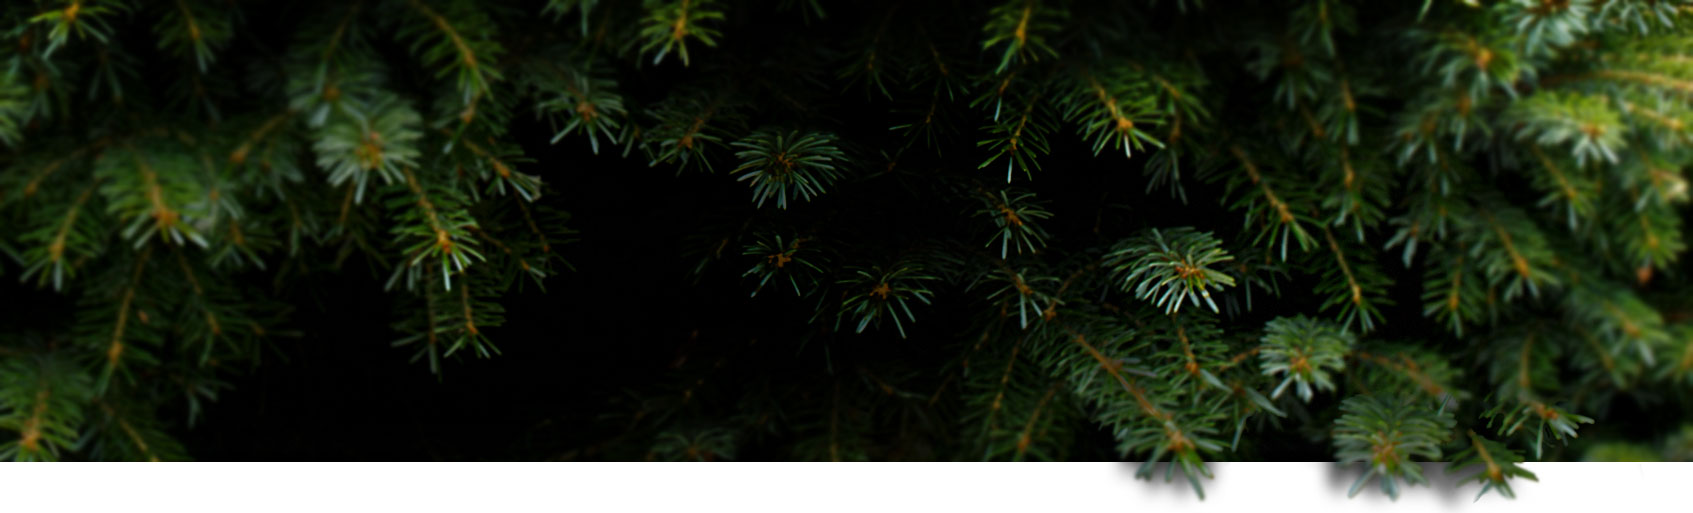
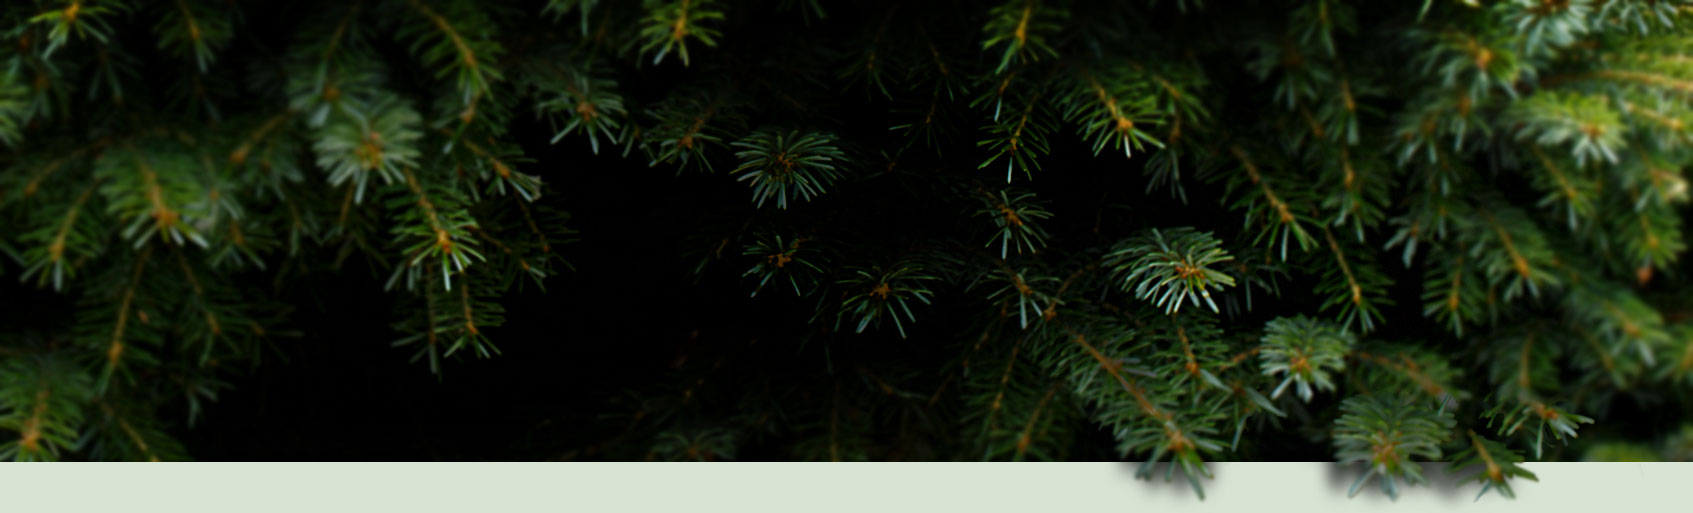
all trees listed

Changed region(s): [[0.0, 0.8733, 1.0, 1.0]]

diff --git a/forest-of-stories/index.html b/forest-of-stories/index.html
@@ -1,5 +1,6 @@
 <!DOCTYPE html>
-<html lang="en"><!-- InstanceBegin template="/Templates/page.dwt" codeOutsideHTMLIsLocked="false" -->
+<html lang="en">
+<!-- InstanceBegin template="/Templates/page.dwt" codeOutsideHTMLIsLocked="false" -->
 <head>
 <meta charset="utf-8">
 <meta http-equiv="X-UA-Compatible" content="IE=edge">
@@ -68,7 +69,7 @@ j=d.createElement(s),dl=l!='dataLayer'?'&l='+l:'';j.async=true;j.src=
 <link href="https://maxcdn.bootstrapcdn.com/bootswatch/3.3.7/cosmo/bootstrap.min.css" rel="stylesheet" integrity="sha384-h21C2fcDk/eFsW9sC9h0dhokq5pDinLNklTKoxIZRUn3+hvmgQSffLLQ4G4l2eEr" crossorigin="anonymous">
 <link href="https://fonts.googleapis.com/css?family=Roboto+Slab:300,400|Ubuntu:300,400,500,300italic,400italic,500italic|Open+Sans:300,400,500,600,700,800|Nothing+You+Could+Do|Material+Icons" rel="stylesheet">
 <link type="text/css" rel="stylesheet" href="https://www.dcl.org/shared-assets/css/dcl.css?81822">
-<script src="https://kit.fontawesome.com/5a49a17030.js" crossorigin="anonymous"></script>
+<script src="https://kit.fontawesome.com/5a49a17030.js" crossorigin="anonymous"></script> 
 <script async="async" type="text/javascript">(function(){var e=document.createElement("script");
 e.src="https://dcl.bibliocommons.com/javascripts/sdk.js";
 e.async=true;var t=document.getElementsByTagName("script")[0];t.parentNode.insertBefore(e,t)})()</script> 
@@ -95,8 +96,9 @@ e.async=true;var t=document.getElementsByTagName("script")[0];t.parentNode.inser
 	font-display: swap;
 }
 .row.forest-row {
-	background: url("branches.jpg") center bottom/cover;
-	padding: 75px 0 0;
+	background: url("tree-branches.jpg") center bottom/cover;
+	padding: 40px 0 140px;
+	color: #fff;
 }
 h1.pop-clink {
 	font-family: 'Pop Clink Fill', serif;
@@ -120,45 +122,76 @@ h1.bulgary {
 .light-green {
 	color: #efffd6;
 }
-.tree-location {
-	color: #fff;
-	font-size: 20px;
-	text-transform: uppercase;
-	font-weight: 400;
-	margin-top: 0;
-}
 .forest-intro {
 	padding-top: 30px;
 }
 .row.detail-row {
-	background: linear-gradient(#000, #182e0c);
-	padding: 40px 0 100px;
-	color: #efffd6;
+	background: #d7e3d3;
+	padding: 0 0 80px;
 }
-.spotlight-wrapper {
-	/* display: flex; */
-	/* flex-wrap: wrap; */
-	max-width: 720px;
-	margin: 0 auto;/* justify-content: center; */
+.detail-wrapper {
+	font-size: 18px;
+	font-weight: 400px;
+	max-width: 1080px;
+	margin: 0 auto;
+	padding: 0 15px 25px;
+	color: #000;
+	background: transparent;
+	margin-top: -20px;
 }
-.spotlight-wrapper > div {
-	padding: 15px 30px 20px;
-	background: #293c0d;
-	margin: 15px;
-	border-radius: 2px;
+.tree-wrapper {
+	display: flex;
+	flex-wrap: wrap;
+	max-width: 1225px;
+	margin: 0 auto;
+	justify-content: center;
 }
-.trees {
-	white-space: nowrap;
-	padding-right: 20px;
-	color: #fff;
+.tree-location {
+	font-size: 28px;
+	text-align: center;
+	margin: 15px 0 5px;
 }
-.mid-green.fa-light.fa-tree {
-	margin-right: 6px;
+.tree-item img {
+	border-radius: 50%;
+	width: 150px;
+	height: 150px;
+	text-align: center;
+	display: flex;
+	/* justify-content: center; */
+	/* align-content: center; */
+	margin: 0 auto;
+}
+.tree-item {
+	min-width: 350px;
+	margin: 20px;
+	padding: 30px 30px 35px;
+	background: rgba(255,255,255,.4);
+	border-radius: 3px;
+	color: #000;
+}
+
+@media (max-width: 780px) {
+.tree-item {
+	min-width: 500px;
+}
+}
+
+@media (max-width: 500px) {
+h1.pop-clink {
+	font-size: 60px;
+}
+h1.bulgary {
+	margin: -20px 0;
+	font-size: 84px;
+}
+.tree-item {
+	min-width: 100%;
+}
 }
 </style>
 <!-- InstanceEndEditable -->
 </head>
-<body> 
+<body>
 <!-- Google Tag Manager (noscript) -->
 <noscript>
 <iframe src="https://www.googletagmanager.com/ns.html?id=GTM-MV5DM73"
@@ -333,43 +366,167 @@ height="0" width="0" style="display:none;visibility:hidden"></iframe>
         <h1 class="bulgary">of</h1>
         <h1 class="pop-clink">STORIeS</h1>
         <div class="forest-intro">
-          <h3 class="font-weight-400 light-green no-margin-bottom margin-top-15 text-uppercase">On Display at All DCL Locations, NOV 19-JAN 7</h3>
-          <h4 class="mid-green font-weight-400">Plan your visit! Exhibit is open during library hours, no ticket or registration required.</h4>
-          <div class="light-green margin-lg-200">Enjoy a wonder-filled holiday experience for the whole family! Our Forest of Stories exhibit displays more than 120 decorated trees, all dressed up in stories&mdash;from favorite children’s tales and classic literature, to crime thrillers, mysteries and more. There is something for everyone! Visit all seven locations and find a favorite tree at each one. </div>
+          <h3 class="white font-weight-400 no-margin-bottom margin-top-15 text-uppercase">On Display at All DCL Locations, NOV 19-JAN 7</h3>
+          <h4 class="white font-weight-400">Plan your visit! Exhibit is open during library hours, no ticket or registration required.</h4>
         </div>
       </div>
     </div>
   </div>
   <div class="row detail-row">
-    <h3 class="text-center no-margin-top text-uppercase font-weight-400 light-green">Featuring:</h3>
-    <div class="spotlight-wrapper">
-      <div>
-        <h4 class="tree-location">Castle Pines</h4>
-        <div class="tree-list"> <span class="trees"><i class="mid-green fa-light fa-tree"></i>The Hunger Games</span> <span class="trees"><i class="mid-green fa-light fa-tree"></i>Thomas the Tank Engine</span> <span class="trees"><i class="mid-green fa-light fa-tree"></i>Outlander</span> </div>
+    <div class="text-center detail-wrapper">
+      <div>Enjoy a wonder-filled holiday experience for the whole family! Our Forest of Stories exhibit displays more than 120 decorated trees, all dressed up in stories&mdash;from favorite children’s tales and classic literature, to crime thrillers, mysteries and more. There is something for everyone!</div>
+      <h4 class="black no-margin-bottom">Visit all seven locations and find a favorite tree at each one.</h4>
+    </div>
+    <div class="tree-wrapper">
+      <div class="tree-item"> <img src="castle-pines.jpg" alt="">
+        <div class="tree-location">Castle Rock</div>
+        <div class="tree-list">
+          <ul class="no-margin">
+            <li>Community Tree</li>
+            <li>Harry Potter-Hufflepuff</li>
+            <li>Dolly Parton</li>
+            <li>Captain Underpants</li>
+            <li>Dungeons and Dragons</li>
+            <li>Stephanie Plum</li>
+            <li>Eric Carle</li>
+            <li>Winnie the Pooh</li>
+            <li>Little House on the Prairie</li>
+            <li>Clifford the Big Red Dog</li>
+            <li>Wizard of Oz</li>
+            <li>Where the Wild things Are</li>
+            <li>Superhero Classic Comic</li>
+            <li>Camping/ Fly Fishing</li>
+            <li>Westerns</li>
+            <li>I Spy</li>
+            <li>Neil Gaiman</li>
+            <li>World War II</li>
+            <li>Lord of the Rings</li>
+            <li>Lord of the Rings</li>
+            <li>Lord of the Rings</li>
+          </ul>
+        </div>
       </div>
-      <div>
-        <h4 class="tree-location">Castle Rock</h4>
-        <div class="tree-list"> <span class="trees"><i class="mid-green fa-light fa-tree"></i>Harry Potter-Hufflepuff House</span> <span class="trees"><i class="mid-green fa-light fa-tree"></i>Winnie-the-Pooh</span> <span class="trees"><i class="mid-green fa-light fa-tree"></i>The Wizard of Oz</span> </div>
+      <div class="tree-item"> <img src="castle-pines.jpg" alt="">
+        <div class="tree-location">Highlands Ranch</div>
+        <div class="tree-list">
+          <ul class="no-margin">
+            <li>Arthur</li>
+            <li>C.J. Box</li>
+            <li>Jan Brett</li>
+            <li>The Cat in the Hat</li>
+            <li>Charlotte's Web</li>
+            <li>Classic Rock</li>
+            <li>Ian Fleming</li>
+            <li>The Great Gatsby</li>
+            <li>Harry Potter: Slytherin</li>
+            <li>The Iron Giant</li>
+            <li>James and the Giant Peach</li>
+            <li>The Joy of Cooking </li>
+            <li>Eric Larsen</li>
+            <li>Little Golden Books</li>
+            <li>Manga</li>
+            <li>Brad Meltzer</li>
+            <li>Pete the Cat</li>
+            <li>Police Procedurals</li>
+            <li>The Queen’s Gambit </li>
+            <li>Ready Player One</li>
+            <li>Michael Schur</li>
+            <li>Sesame Street</li>
+            <li>World Records</li>
+          </ul>
+        </div>
       </div>
-      <div>
-        <h4 class="tree-location">Highlands Ranch</h4>
-        <div class="tree-list"> <span class="trees"><i class="mid-green fa-light fa-tree"></i>Charlotte’s Web</span> <span class="trees"><i class="mid-green fa-light fa-tree"></i>The Great Gatsby</span> <span class="trees"><i class="mid-green fa-light fa-tree"></i>Harry Potter-Slytherin House</span> </div>
+      <div class="tree-item"> <img src="castle-pines.jpg" alt="">
+        <div class="tree-location">Parker</div>
+        <div class="tree-list">
+          <ul class="no-margin">
+            <li>Around the World in 80 Days</li>
+            <li>Charlie and the Chocolate Factory</li>
+            <li>Chicka Chicka Boom Boom</li>
+            <li>Cinder</li>
+            <li>Despicable Me</li>
+            <li>Dune</li>
+            <li>Game of Thrones</li>
+            <li>Goodnight Moon</li>
+            <li>Harold and the Purple Crayon</li>
+            <li>Harry Potter: Gryffindor</li>
+            <li>If You Give a Mouse a Cookie</li>
+            <li>The Language of Flowers</li>
+            <li>Magic Tree House</li>
+            <li>The Midnight Library</li>
+            <li>The Nightmare Before Christmas</li>
+            <li>Peterson Field Guide to Birds</li>
+            <li>The Princess Bride</li>
+            <li>The Princess in Black</li>
+            <li>Rankin-Bass Animated Christmas</li>
+            <li>The Secret Garden</li>
+            <li>Stephen King’s The Shining</li>
+            <li>Where's Waldo?</li>
+            <li>Mo Willems</li>
+            <li>WWII Homefront</li>
+          </ul>
+        </div>
       </div>
-      <div>
-        <h4 class="tree-location">Lone Tree</h4>
-        <div class="tree-list"> <span class="trees"><i class="mid-green fa-light fa-tree"></i>A Christmas Carol</span> <span class="trees"><i class="mid-green fa-light fa-tree"></i>Harry Potter-Ravenclaw House</span> </div>
+      <div class="tree-item"> <img src="castle-pines.jpg" alt="">
+        <div class="tree-location">Lone Tree</div>
+        <div class="tree-list">
+          <ul class="no-margin">
+            <li>20,000 Leagues Under the Sea</li>
+            <li>Alice in Wonderland</li>
+            <li>Jane Austen</li>
+            <li>Black Beauty</li>
+            <li>A Christmas Carol</li>
+            <li>Dracula</li>
+            <li>Frankenstein</li>
+            <li>Harry Potter: Ravenclaw</li>
+            <li>The Jungle Book</li>
+            <li>The Legend of Sleepy Hollow</li>
+            <li>Little Red Riding Hood</li>
+            <li>Little Women</li>
+            <li>Moby Dick</li>
+            <li>Peter Pan</li>
+            <li>Peter Rabbit</li>
+            <li>Edgar Allan Poe</li>
+            <li>Sherlock Holmes</li>
+            <li>Treasure Island</li>
+            <li>H.G. Wells</li>
+          </ul>
+        </div>
       </div>
-      <div>
-        <h4 class="tree-location">Louviers</h4>
-        <div class="tree-list"> <span class="trees"><i class="mid-green fa-light fa-tree"></i>Bats in the Library</span> </div>
+      <div class="tree-item"> <img src="castle-pines.jpg" alt="">
+        <div class="tree-location">Castle Pines</div>
+        <div class="tree-list">
+          <ul class="no-margin">
+            <li>Colorado 14er</li>
+            <li>Community Tree</li>
+            <li>David Sedaris/Comedy</li>
+            <li>Gardening</li>
+            <li>Hunger Games</li>
+            <li>The Lorax</li>
+            <li>Murder on the Orient Express</li>
+            <li>Newberry Classic</li>
+            <li>Outlander</li>
+            <li>Thomas the Tank Engine </li>
+            <li>Twilight</li>
+            <li>The Witches Dahl</li>
+          </ul>
+        </div>
       </div>
-      <div>
-        <h4 class="tree-location">Parker</h4>
-        <div class="tree-list"> <span class="trees"><i class="mid-green fa-light fa-tree"></i>Game of Thrones</span> <span class="trees"><i class="mid-green fa-light fa-tree"></i>Harry Potter-Gryffindor House</span> <span class="trees"><i class="mid-green fa-light fa-tree"></i>The Midnight Library</span> </div>
-      </div>
-      <div>
-        <h4 class="tree-location">Roxborough</h4>
-        <div class="tree-list"> <span class="trees"><i class="mid-green fa-light fa-tree"></i>Fancy Nancy</span> <span class="trees"><i class="mid-green fa-light fa-tree"></i>Chronicles of Narnia</span> <span class="trees"><i class="mid-green fa-light fa-tree"></i>Charlie Brown</span> </div>
+      <div class="tree-item"> <img src="castle-pines.jpg" alt="">
+        <div class="tree-location">Louviers & Roxborough</div>
+        <div class="tree-list">
+          <ul class="no-margin">
+            <li>Bats in the Library</li>
+            <li>Bridgerton</li>
+            <li>Charlie Brown</li>
+            <li>The Chronicles of Narnia</li>
+            <li>Dinosaurs</li>
+            <li>Fancy Nancy</li>
+            <li>Gerald & Piggie</li>
+            <li>Mexican Gothic</li>
+            <li>Paw Patrol</li>
+          </ul>
+        </div>
       </div>
     </div>
   </div>
@@ -431,7 +588,7 @@ height="0" width="0" style="display:none;visibility:hidden"></iframe>
     </div>
   </div>
 </div>
-<!-- InstanceBeginEditable name="scripts" --> <!-- InstanceEndEditable --> <!-- InstanceBeginEditable name="structured data" --> <!-- InstanceEndEditable -->
+<!-- InstanceBeginEditable name="scripts" --> <!-- InstanceEndEditable --> <!-- InstanceBeginEditable name="structured data" --> <!-- InstanceEndEditable --> 
 <!-- pull alert.txt into the general-alert div --> 
 <script>
 $.get("https://s3.amazonaws.com/website.alert/alert.txt")
@@ -440,4 +597,5 @@ $.get("https://s3.amazonaws.com/website.alert/alert.txt")
 });
 </script>
 </body>
-<!-- InstanceEnd --></html>
+<!-- InstanceEnd -->
+</html>
